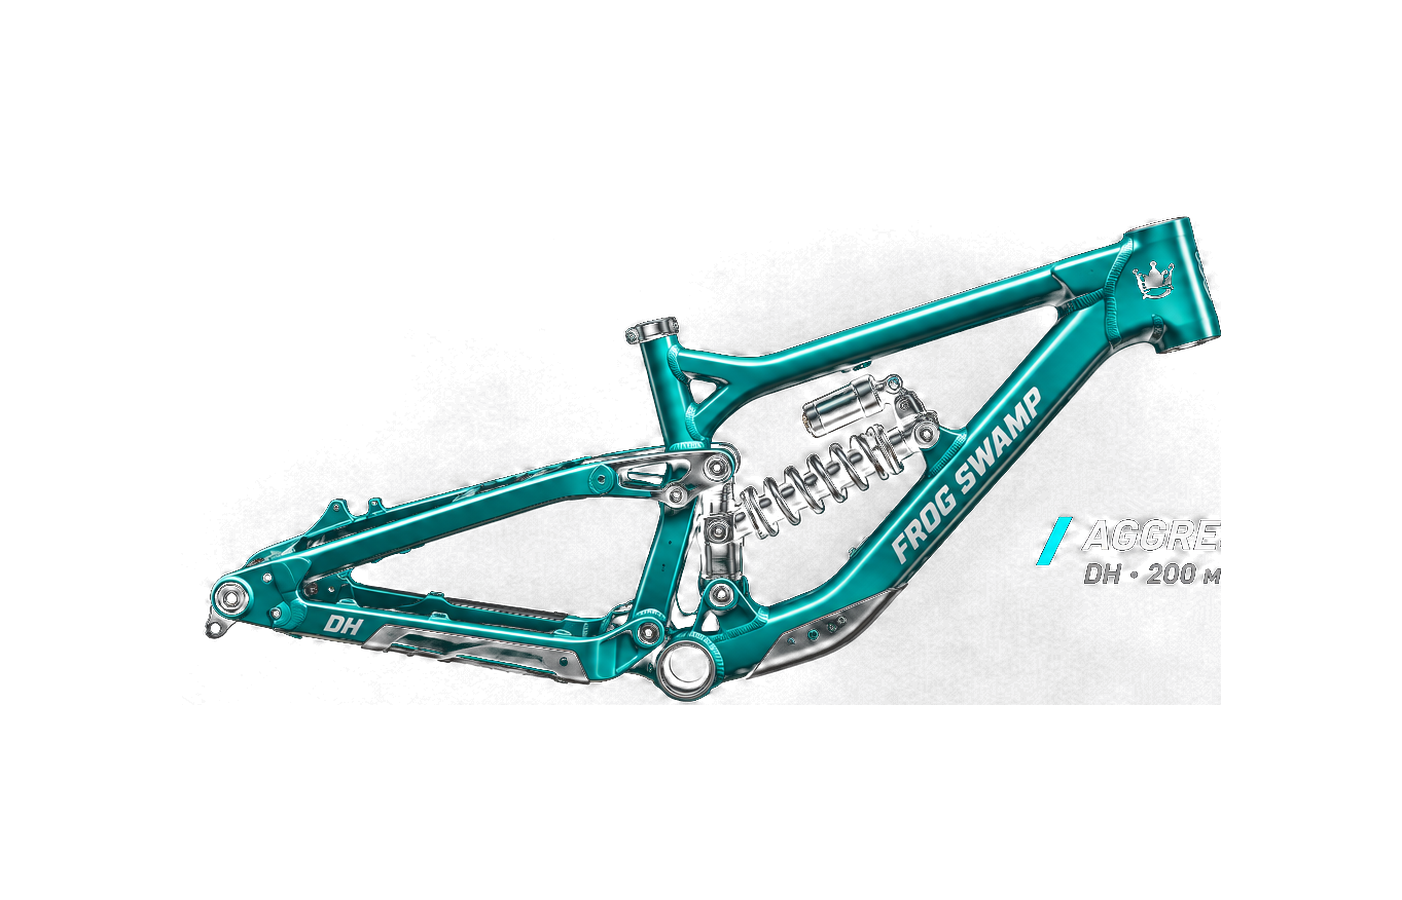
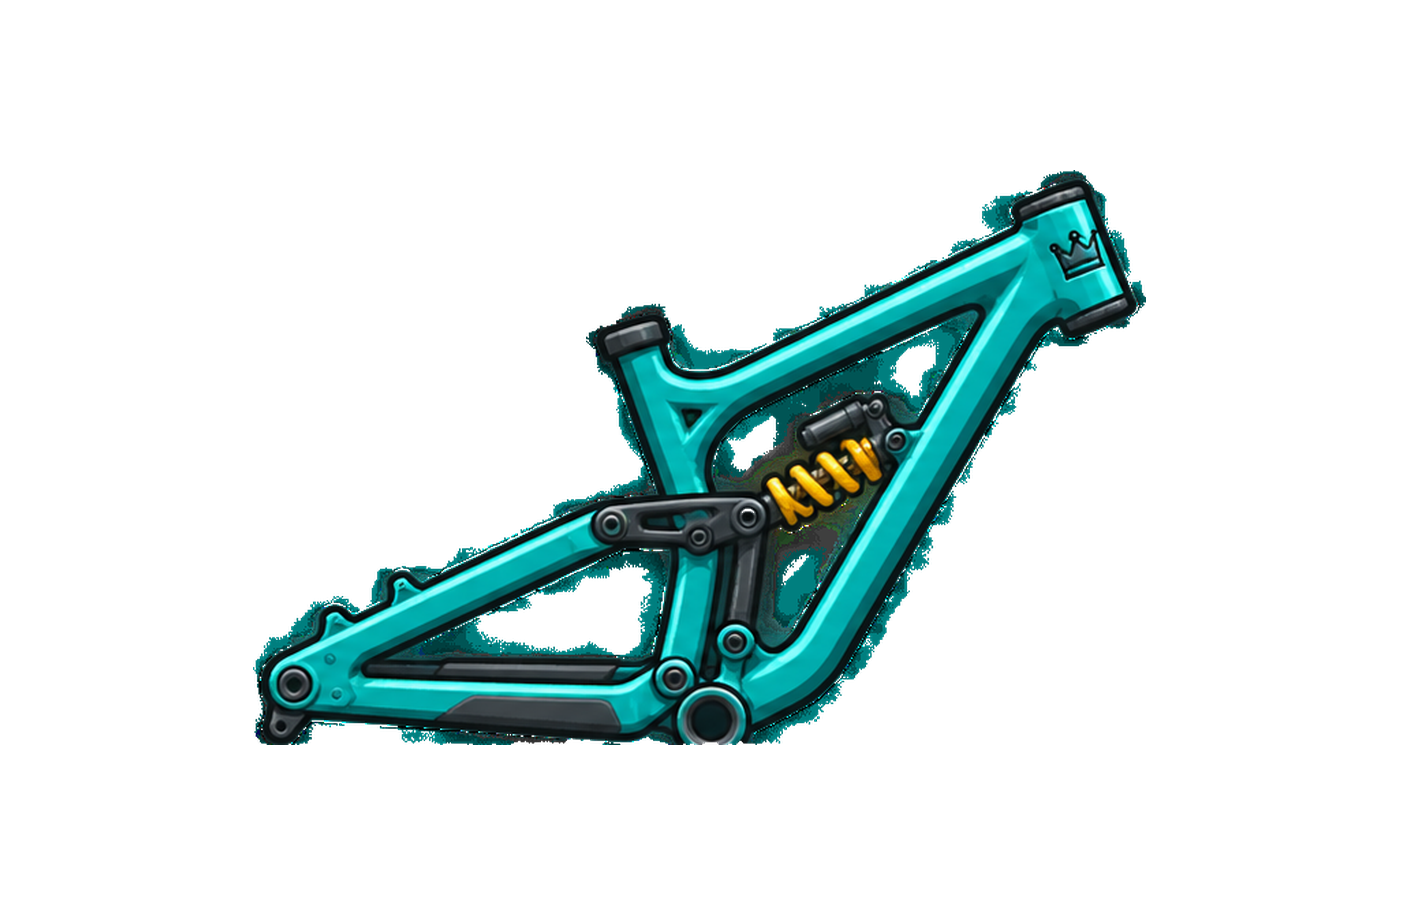
Add files via upload

Changed region(s): [[0.1227, 0.1867, 0.8894, 0.84]]

diff --git a/sw.js b/sw.js
@@ -1,4 +1,4 @@
-const CACHE_NAME = 'freeride-mtb-v69-live-garage';
+const CACHE_NAME = 'freeride-mtb-v73-matched-frames';
 const ASSETS = ["./","./index.html","./manifest.json","./frame_aggressive.png","./frame_trail.png","./frame_hardtail.png"];
 self.addEventListener("install", e => e.waitUntil(caches.open(CACHE_NAME).then(c=>c.addAll(ASSETS)).then(()=>self.skipWaiting())));
 self.addEventListener("activate", e => e.waitUntil(caches.keys().then(keys=>Promise.all(keys.filter(k=>k!==CACHE_NAME).map(k=>caches.delete(k)))).then(()=>self.clients.claim())));

diff --git a/README.md b/README.md
@@ -1,16 +1,7 @@
-# Freeride MTB V68 — Real Frame Models
+# Freeride MTB V73 — matched frame set
 
-V68 replaces the previous geometric placeholder frame sprites with detailed,
-photo-style 3D frame artwork for Aggressive, Trail and Hardtail.
-
-Required structure:
-- index.html
-- manifest.json
-- sw.js
-- README.md
-- assets/frames/frame_aggressive.png
-- assets/frames/frame_trail.png
-- assets/frames/frame_hardtail.png
-
-The game loads the same frame image assets in the garage and the ride renderer.
-Keep the assets/frames folder path unchanged when uploading to GitHub Pages.
+- Trail: preserved from the exact user-supplied `frame_trail.png` reference.
+- Aggressive: matching teal full-suspension tube frame with gold coil and linkage.
+- Hardtail: matching lime rigid tube frame with no rear shock.
+- All three assets share a 1402×900 canvas and aligned geometry for the existing game renderer.
+- Assets are transparent PNGs, not screenshots or photo cards.
